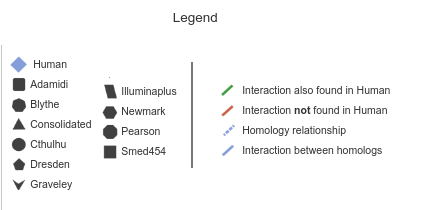
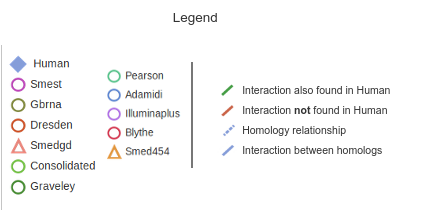
Preparing for update.

diff --git a/NetExplorer/templates/NetExplorer/about.html b/NetExplorer/templates/NetExplorer/about.html
@@ -55,9 +55,12 @@
     <h3>v1.2: January 23rd 2019</h3>
     <ul class="update-notes-ul">
         <li>Schmidtea mediterranea predicted genes (see: <a href="https://academic.oup.com/nar/article/47/D1/D812/5212006" target="_blank">A. Rozanski et al.</a>) as well as their associated transcripts have been included in PlanNET as SmesGene and Smest respectively.</li>
+        <li>Smest gene associated transcripts are now available in the <a href="{% url 'blast' %}">BLAST</a> application.</li>
         <li>A new gene card for Smesgenes has been implemented, with information regarding the associated transcripts across different transcriptomes, the genomic location, gene ontologies and predicted protein-protein interactions.</li>
         <li>Several genomic features (such as mapped transcripts over <a href="https://www.nature.com/articles/nature25473" target="_blank">the newly assembled S.med genome</a>) can now be visualized using our new <a href="https://compgen.bio.ub.edu/jbrowse" target="_blank">JBrowse plugin</a>.</li>
         <li><a href="{% url 'planexp' %}">PlanExp</a>, a PlanNET plugin for exploring RNA-seq experiments is available for registered users to test.</li>
+        <li>Databases are now identified by node border color instead of shape.</li>
+        <li>Node shape in NetExplorer and PathwayFinder now refers to the technology used for sequencing, with triangles reserved for "legacy" technologies such as Sanger and 454, and circles for high-throughput RNA-seq.</li>
         <li>General improvements to design and readability of the application.</li>
     </ul>
 

diff --git a/NetExplorer/templates/NetExplorer/blast.html b/NetExplorer/templates/NetExplorer/blast.html
@@ -54,7 +54,6 @@
             <h2>Database</h2>
             <select id="database-selection" name="database" class="selectpicker" title="Select Database">
                 <option data-content="<span class='badge badge-success human-select'>Human</span>" value="Human">Human</option>
-                <option data-content="<span class='badge badge-success gene-select'>Planarian Gene</span>" value="Smesgene">Planarian Gene</option>
                 <option data-divider="true"></option>
                 {% for db in databases %}
                     <option data-content="<img class='legend-db' src='{% static 'Images/' %}legend-{{ db.name }}.png'>{{ db.name }}" value="{{ db.name }}">{{ db.name }}</option>

diff --git a/NetExplorer/templates/NetExplorer/contig_card.html b/NetExplorer/templates/NetExplorer/contig_card.html
@@ -253,7 +253,18 @@
                     {% else %}
                         <h3>No interactions</h3>
                     {% endif %}
-
+        
+        {% if node.database == "Dresden" or  node.database == "Smest"  %}
+            <h2><span class="glyphicon glyphicon-tag"></span> External links</h2>
+            <hr class="h2-sep">
+            <ul>
+                <li>Search on <a href="http://planmine.mpi-cbg.de/planmine/keywordSearchResults.do?searchTerm={{ node.symbol }}&searchSubmit=GO" target="_blank">PlanMine</a>.</li>
+            </ul>
+        {% endif %}
+    
+        <br>
+        <br>
+        <br>
     </body>
 
     <script src="{% static 'js/root.js' %}"></script>

diff --git a/NetExplorer/templates/NetExplorer/smesgene_card.html b/NetExplorer/templates/NetExplorer/smesgene_card.html
@@ -198,9 +198,15 @@
             </table>
         </div>
         
-    
+    <h2><span class="glyphicon glyphicon-tag"></span> External links</h2>
+    <hr class="h2-sep">
+    <ul>
+        <li>Search on <a href="http://planmine.mpi-cbg.de/planmine/keywordSearchResults.do?searchTerm={{ node.symbol }}&searchSubmit=GO" target="_blank">PlanMine</a>.</li>
+    </ul>
 
-    
+    <br>
+    <br>
+    <br>
 </body>
 
 <script src="{% static 'js/root.js' %}"></script>

diff --git a/NetExplorer/static/css/style.css b/NetExplorer/static/css/style.css
@@ -2377,3 +2377,5 @@ summary:hover { cursor: pointer; opacity: 0.8; }
 
 #editor-cancel, #editor-save { width: 100px; }
 .space { width: 20px; }
+
+summary { display: list-item !important; }

diff --git a/static/css/style.css b/static/css/style.css
@@ -2377,3 +2377,5 @@ summary:hover { cursor: pointer; opacity: 0.8; }
 
 #editor-cancel, #editor-save { width: 100px; }
 .space { width: 20px; }
+
+summary { display: list-item !important; }
